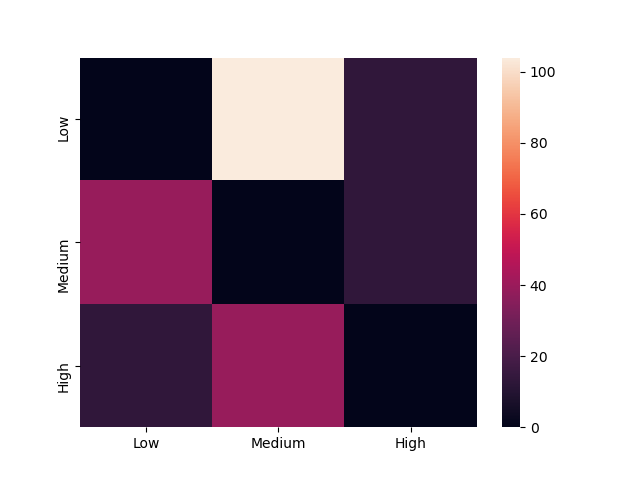
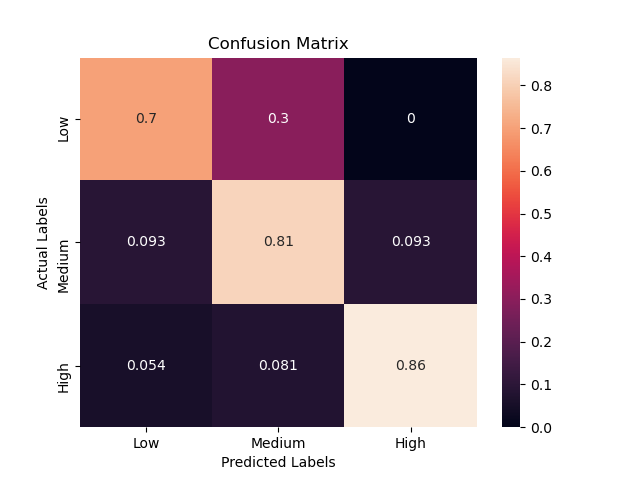
Confusion matrices

diff --git a/models/transfer_models.py b/models/transfer_models.py
@@ -61,7 +61,7 @@ def get_vgg_transfer_model_dropout(img_shape, num_labels, unfreeze_layer):
     global_average_layer = tf.keras.layers.GlobalAveragePooling2D()
     dense = tf.keras.layers.Dense(150, activation='relu')
     dense2 = tf.keras.layers.Dense(150, activation='relu')
-    drop = tf.keras.layers.Dropout(0.2)
+    drop = tf.keras.layers.Dropout(0.4)
     prediction_layer = tf.keras.layers.Dense(num_labels,activation='softmax')
 
     model = tf.keras.Sequential([
@@ -240,6 +240,7 @@ def conf(model, x, y):
 
 
 def confusion(img_size, batch_folder, epochs=100, forced_loc=None, base_name=''):
+    print('start plot')
     name = base_name + batch_folder + '_' + str(epochs) + '_epochs'
     model = get_vgg_transfer_model((224, 224, 3), 3)
     model.load_weights('weights/' + name + '_weights')
@@ -258,16 +259,28 @@ def confusion(img_size, batch_folder, epochs=100, forced_loc=None, base_name='')
     
     ind = ['Low', 'Medium', 'High']
     # remove diagonals since they are the # of correct assignments
-    conf_mat = tf.linalg.set_diag(conf_mat, [0, 0, 0])
-    conf_mat = tf.linalg.normalize(conf_mat, axis=1)
-    pd_conf = pd.DataFrame(conf_mat, index=ind, columns=ind).astype('int32')
+    # conf_mat = tf.linalg.set_diag(conf_mat, [0, 0, 0])
+    
+    print('raw conf mat')
+    print(conf_mat)
+    conf_mat = conf_mat.numpy().astype('float32')
+    row_sums = np.sum(conf_mat, axis=1)
+    for i in range(3):
+        conf_mat[i, :] = conf_mat[i, :] / row_sums[i]
+    pd_conf = pd.DataFrame(conf_mat, index=ind, columns=ind)
 
-    fig, ax = sn.heatmap(pd_conf, annot=True)
-    ax.title('Confusion Matrix')
-    ax.xlabel('Predicted Labels')
-    ax.ylabel('Actual Labels')
-    plt.show()
-    # plt.savefig('conf_mats/' + name + '_conf')
+
+    ax = plt.axes()
+    sn.heatmap(pd_conf, annot=True)
+    ax.set_title('Confusion Matrix')
+    plt.xlabel('Predicted Labels')
+    plt.ylabel('Actual Labels')
+    print('finished plot')
+    print(conf_mat)
+    print('row sums')
+    print(np.sum(conf_mat, axis=1))
+    plt.savefig('conf_mats/' + name + '_conf')
+    plt.clf()
 
 
 
@@ -321,7 +334,7 @@ def main():
     labels = ['low income', 'medium income', 'high income']
     # for bf in batch_folders:
     #     model = get_vgg_transfer_model((224, 224, 3), len(labels))
-    #     train_and_eval(model=model, img_size=img_size, batch_folder=bf, epochs=100, steps_per_epoch=16, validation_steps=2, forced_loc='AZ', base_name='2d_FINAL')
+    #     train_and_eval(model=model, img_size=img_size, batch_folder=bf, epochs=100, steps_per_epoch=16, validation_steps=2, base_name='2d_FINAL')
     # for bf in batch_folders[:1]:
     #     model = get_vgg_transfer_model((224, 224, 3), len(labels))
     #     train_and_eval(model=model, img_size=img_size, batch_folder=bf, epochs=100, steps_per_epoch=16, validation_steps=2, forced_loc='ZZ', base_name='2d_75k_FINAL')
@@ -329,7 +342,10 @@ def main():
     # train_and_eval(model=model, img_size=img_size, batch_folder='GA_3_sat', epochs=50, steps_per_epoch=8, validation_steps=2, base_name='')
     # confusion_test(img_size, 'GA_3_sat')
     # saliency_test(img_size, 'GA_3_sat')
-    confusion(img_size, 'GA_3_sat', base_name='2d_FINAL')
+    for bf in batch_folders:
+        confusion(img_size=img_size, batch_folder=bf, epochs=100, base_name='2d_FINAL')
+    for bf in batch_folders:
+        confusion(img_size=img_size, batch_folder=bf, epochs=100, base_name='2d_75k_FINAL')
 
 
 
